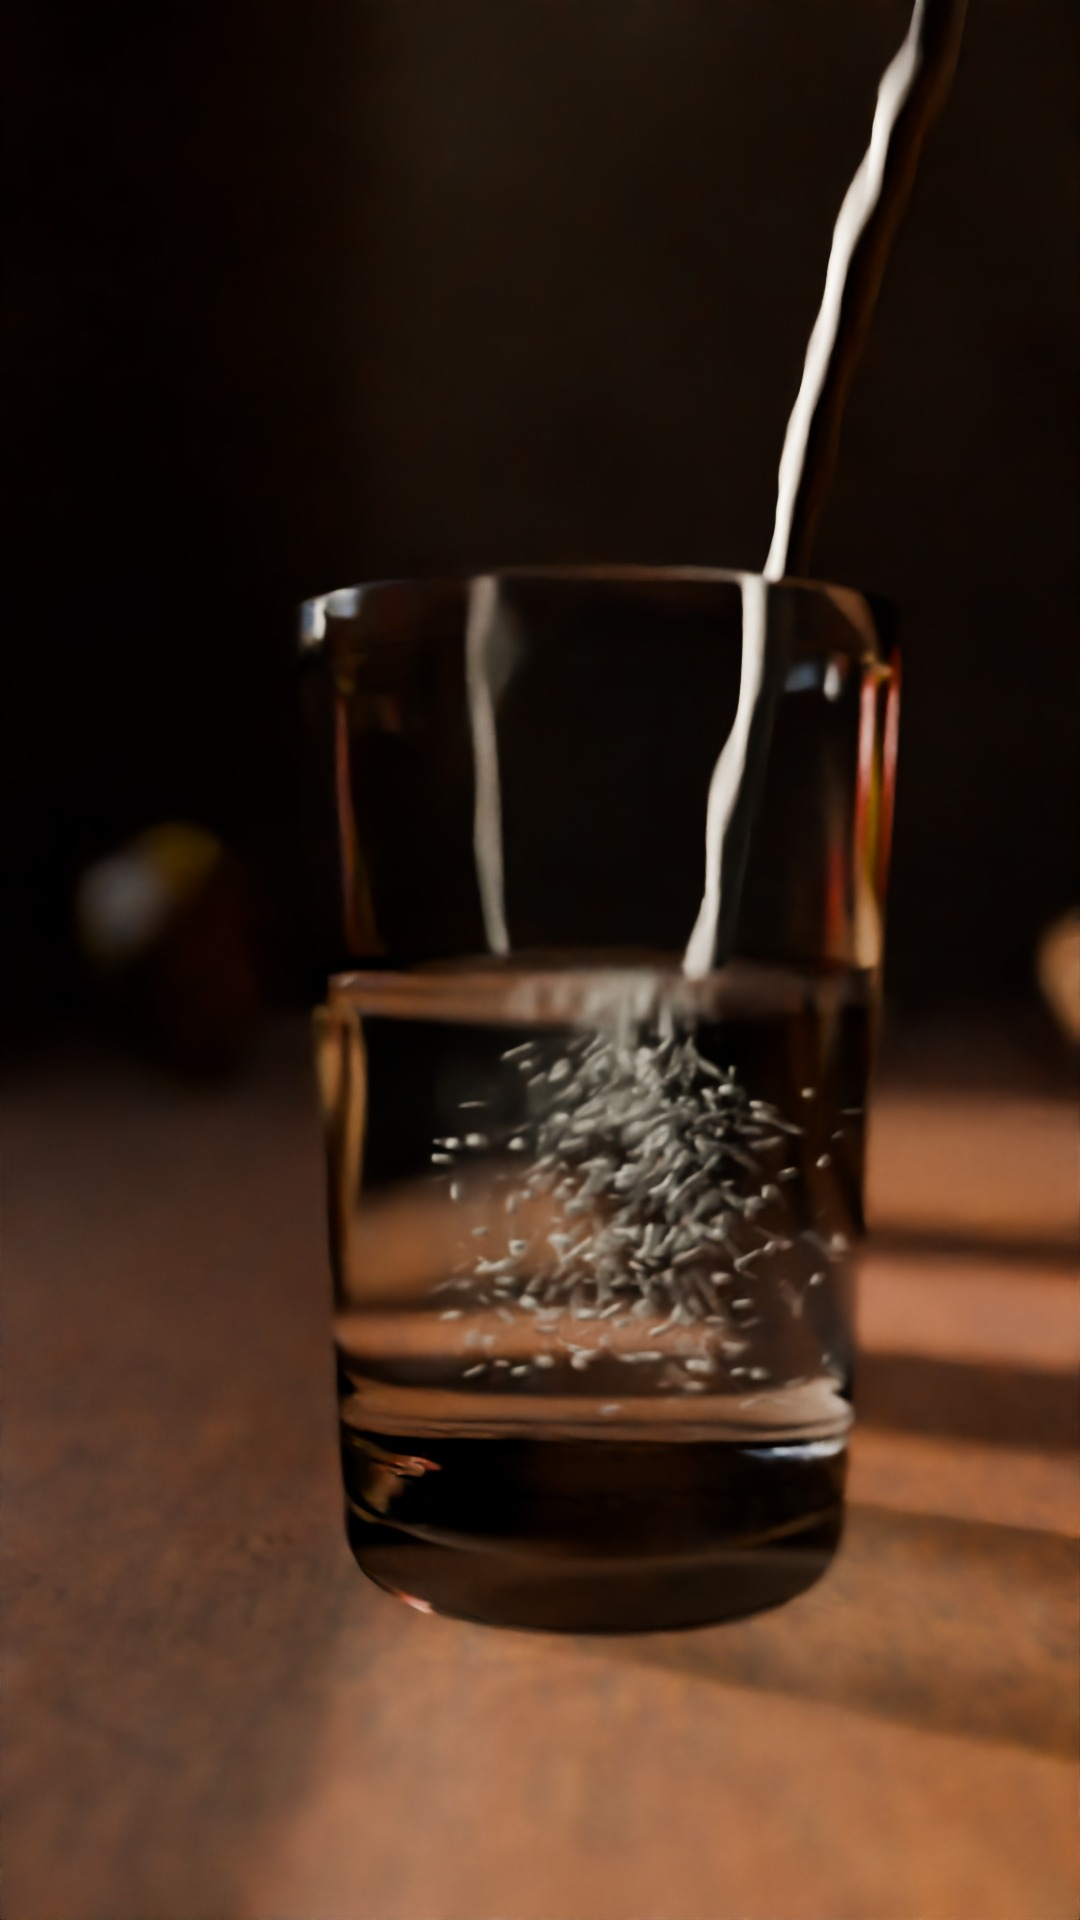
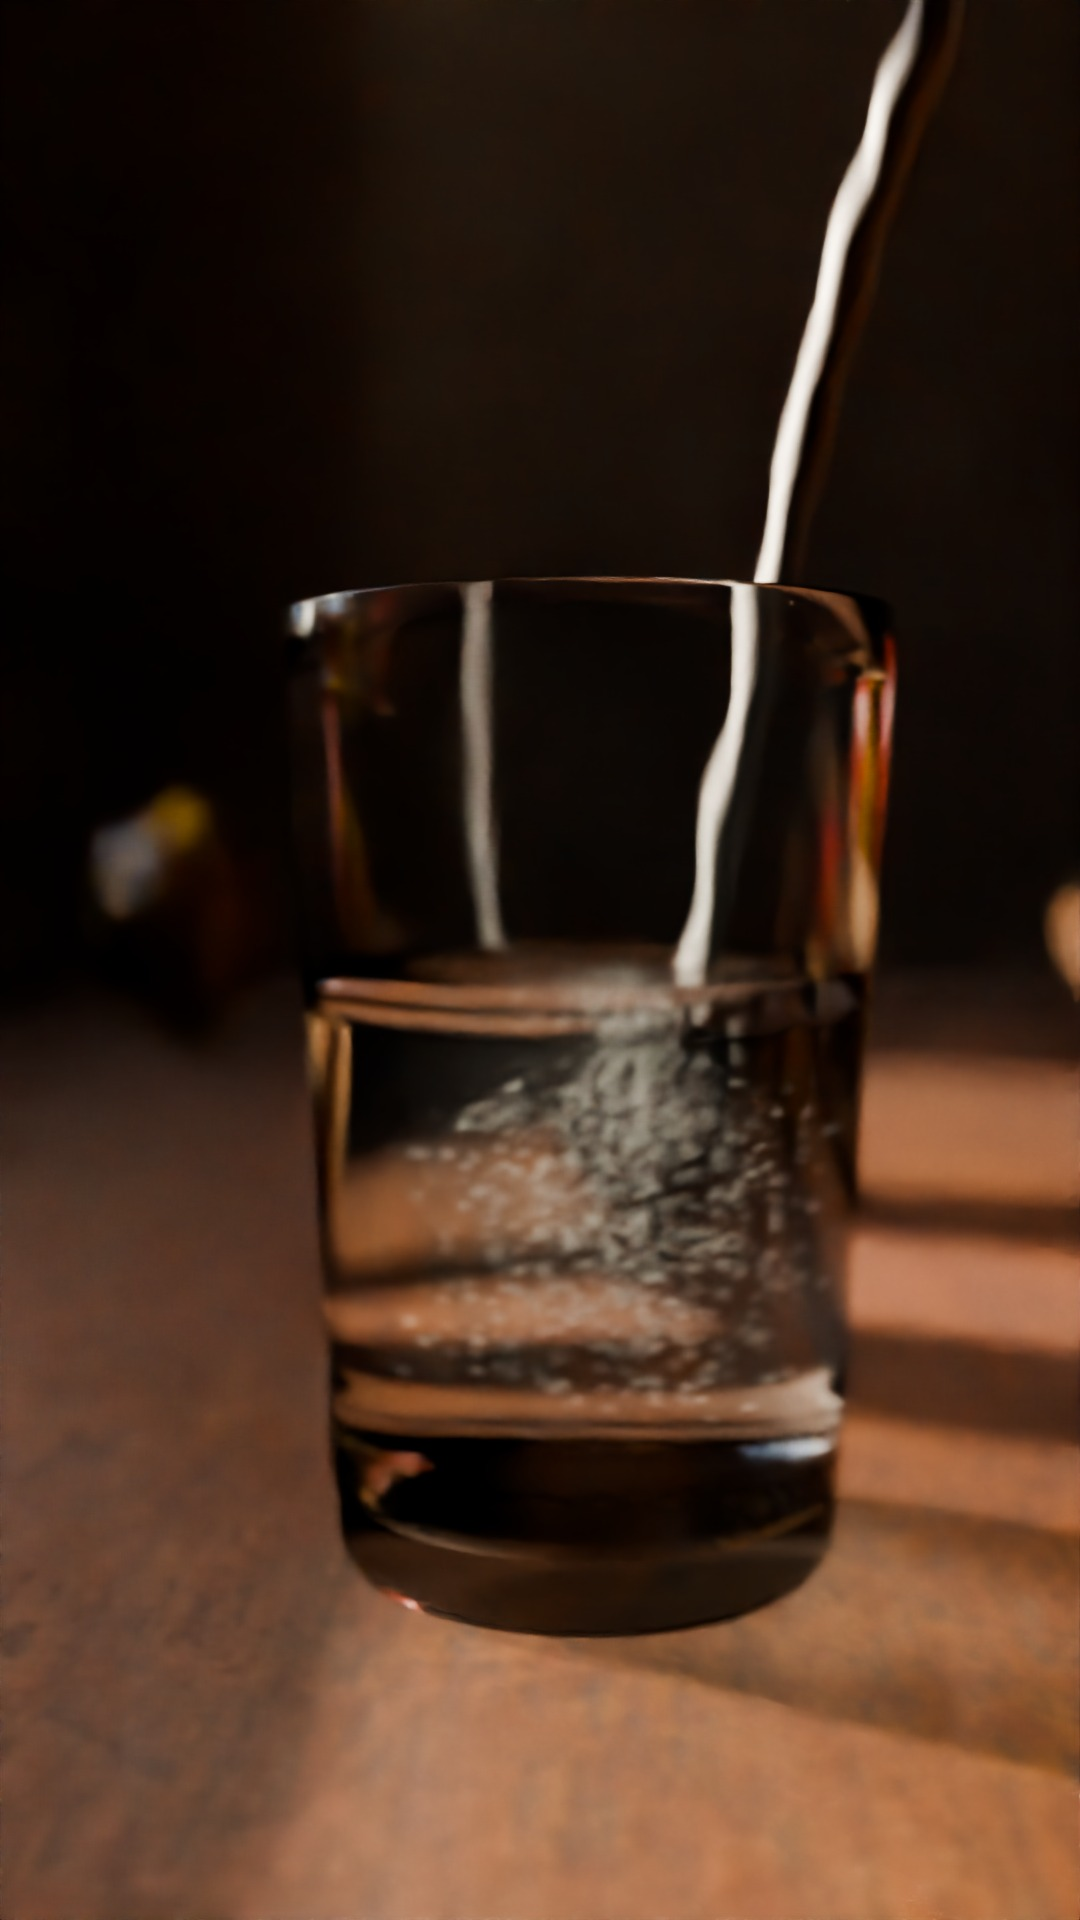
S4: bread crust + placement, final-quality sample frames, sh03 exposure match to sh02 end

diff --git a/video/blender/lib_s4.py b/video/blender/lib_s4.py
@@ -692,13 +692,13 @@ def mat_bread():
     L(nz.outputs["Fac"], mixf.inputs[0]); L(hz.outputs["Result"], mixf.inputs[2])
     ramp = nt.nodes.new("ShaderNodeValToRGB")
     cr = ramp.color_ramp
-    cr.elements[0].position = 0.15; cr.elements[0].color = (0.55, 0.31, 0.11, 1)
-    cr.elements[1].position = 0.97; cr.elements[1].color = (0.20, 0.08, 0.025, 1)
-    e = cr.elements.new(0.6); e.color = (0.38, 0.18, 0.055, 1)
+    cr.elements[0].position = 0.15; cr.elements[0].color = (0.42, 0.18, 0.035, 1)
+    cr.elements[1].position = 0.97; cr.elements[1].color = (0.11, 0.035, 0.007, 1)
+    e = cr.elements.new(0.6); e.color = (0.26, 0.095, 0.018, 1)
     L(mixf.outputs[0], ramp.inputs["Fac"])
     inner = nt.nodes.new("ShaderNodeMix"); inner.data_type = "RGBA"
-    inner.inputs[7].default_value = (0.62, 0.42, 0.20, 1)     # fissure: paler, less baked
-    L(crack.outputs["Result"], inner.inputs[0]); L(ramp.outputs["Color"], inner.inputs[7]); inner.inputs[6].default_value = (0.62, 0.42, 0.20, 1)
+    inner.inputs[7].default_value = (0.55, 0.32, 0.10, 1)     # fissure: paler, less baked
+    L(crack.outputs["Result"], inner.inputs[0]); L(ramp.outputs["Color"], inner.inputs[7]); inner.inputs[6].default_value = (0.55, 0.32, 0.10, 1)
     # flour dust patches on the top
     fl = nt.nodes.new("ShaderNodeTexNoise"); fl.inputs["Scale"].default_value = 14; fl.inputs["Detail"].default_value = 10
     fl.inputs["Roughness"].default_value = 0.75
@@ -710,17 +710,18 @@ def mat_bread():
     flour = nt.nodes.new("ShaderNodeMix"); flour.data_type = "RGBA"
     L(flh.outputs[0], flour.inputs[0]); L(inner.outputs[2], flour.inputs[6]); flour.inputs[7].default_value = (0.70, 0.62, 0.50, 1)
     L(flour.outputs[2], p.inputs["Base Color"])
-    p.inputs["Roughness"].default_value = 0.62
-    p.inputs["Subsurface Weight"].default_value = 0.15
-    p.inputs["Subsurface Radius"].default_value = (1.0, 0.6, 0.3)
-    p.inputs["Subsurface Scale"].default_value = 0.004
-    p.inputs["Sheen Weight"].default_value = 0.3
+    p.inputs["Roughness"].default_value = 0.55
+    p.inputs["Subsurface Weight"].default_value = 0.05
+    p.inputs["Subsurface Radius"].default_value = (1.0, 0.5, 0.25)
+    p.inputs["Subsurface Scale"].default_value = 0.002
+    p.inputs["Sheen Weight"].default_value = 0.0
     # bump: fissures + fine blistered crust
-    fine = nt.nodes.new("ShaderNodeTexNoise"); fine.inputs["Scale"].default_value = 260; fine.inputs["Detail"].default_value = 4
+    fine = nt.nodes.new("ShaderNodeTexNoise"); fine.inputs["Scale"].default_value = 140; fine.inputs["Detail"].default_value = 8
+    fine.inputs["Roughness"].default_value = 0.7
     L(tc.outputs["Object"], fine.inputs["Vector"])
-    h = nt.nodes.new("ShaderNodeMath"); h.operation = "MULTIPLY_ADD"; h.inputs[1].default_value = 0.25
+    h = nt.nodes.new("ShaderNodeMath"); h.operation = "MULTIPLY_ADD"; h.inputs[1].default_value = 0.6
     L(fine.outputs["Fac"], h.inputs[0]); L(crack.outputs["Result"], h.inputs[2])
-    bp = nt.nodes.new("ShaderNodeBump"); bp.inputs["Distance"].default_value = 0.0025; bp.inputs["Strength"].default_value = 1.0
+    bp = nt.nodes.new("ShaderNodeBump"); bp.inputs["Distance"].default_value = 0.004; bp.inputs["Strength"].default_value = 1.0
     L(h.outputs[0], bp.inputs["Height"]); L(bp.outputs["Normal"], p.inputs["Normal"])
     return m
 
@@ -1488,7 +1489,7 @@ def build_beam_emission(bmin, bmax, strength=0.03, noise_amp=0.55, curtain_y=Non
 SOFRA = {
     "bowl": (-0.25, 0.33),
     "glass": (-0.53, -0.01),
-    "bread": (0.03, 0.12),
+    "bread": (0.13, 0.10),
     "tea": (0.10, 0.47),
     "plate0": (-0.08, 0.125),     # plate start ...
     "plate1": (-0.245, 0.065),    # ... slides toward camera on "takdim"

diff --git a/video/blender/shots/sh03.py b/video/blender/shots/sh03.py
@@ -60,7 +60,7 @@ def catmull(keys, t):
 
 def build(ctx):
     sc = bpy.context.scene
-    S.light_rig(exposure=1.7)
+    S.light_rig(exposure=1.9)
     S.build_room()
     S.build_table()
     t_yemek, t_icmek, t_butun, t_takdim = ctx.word("yemek"), ctx.word("içmek"), ctx.word("bütün"), ctx.word("takdim")
@@ -135,7 +135,7 @@ def build(ctx):
          (t_takdim + 0.75, tuple(top)),
          (ctx.t1 + 0.4, tuple(top - Vector((0, 0, 0.035))))]
     T = [(ctx.t0 - 0.30, (-0.40, 0.30, 0.68)),
-         (t_yemek + 0.10, (0.00, 0.15, 0.80)),
+         (t_yemek + 0.10, (0.09, 0.13, 0.80)),
          (t_icmek - 0.45, (-0.30, 0.15, 0.80)),
          (t_icmek - 0.05, tuple(G)),
          (t_icmek + 0.70, tuple(G - Vector((0, 0, 0.002)))),

diff --git a/video/review/sh03/NOTES.md b/video/review/sh03/NOTES.md
@@ -46,7 +46,9 @@ see files `sh03_t*.png` — first frame, slider, pour hit, pour rising, crane, t
 * f/4 (was f/2.8) and focus on the near face of the glass during the macro.
 * Crane re-timed: it keeps rising and swinging until ~15.6 s, then a slow settle/roll to the last frame
   (no dead frames at the end); top-down still lands with the bowl at frame centre.
-* Full-res sample frame from the final renderer: `sh03_FINALQ_f274.jpg` (pre-bubble-fix).
+* Full-res final-renderer sample frames: `sh03_FINALQ_f274.jpg` (pour), `sh03_FINALQ_f382.jpg` (last frame).
+* Bread re-shaded (deeper saturated crust, stronger crust bump, no sheen) and moved 10 cm right so the
+  top-down end frame is bowl + plate only; slider still passes right by it at 9.8 s.
 
 ## Changes since review 1
 * Water surface: travelling impact rings + chop while pouring (keyed off after the pour).
